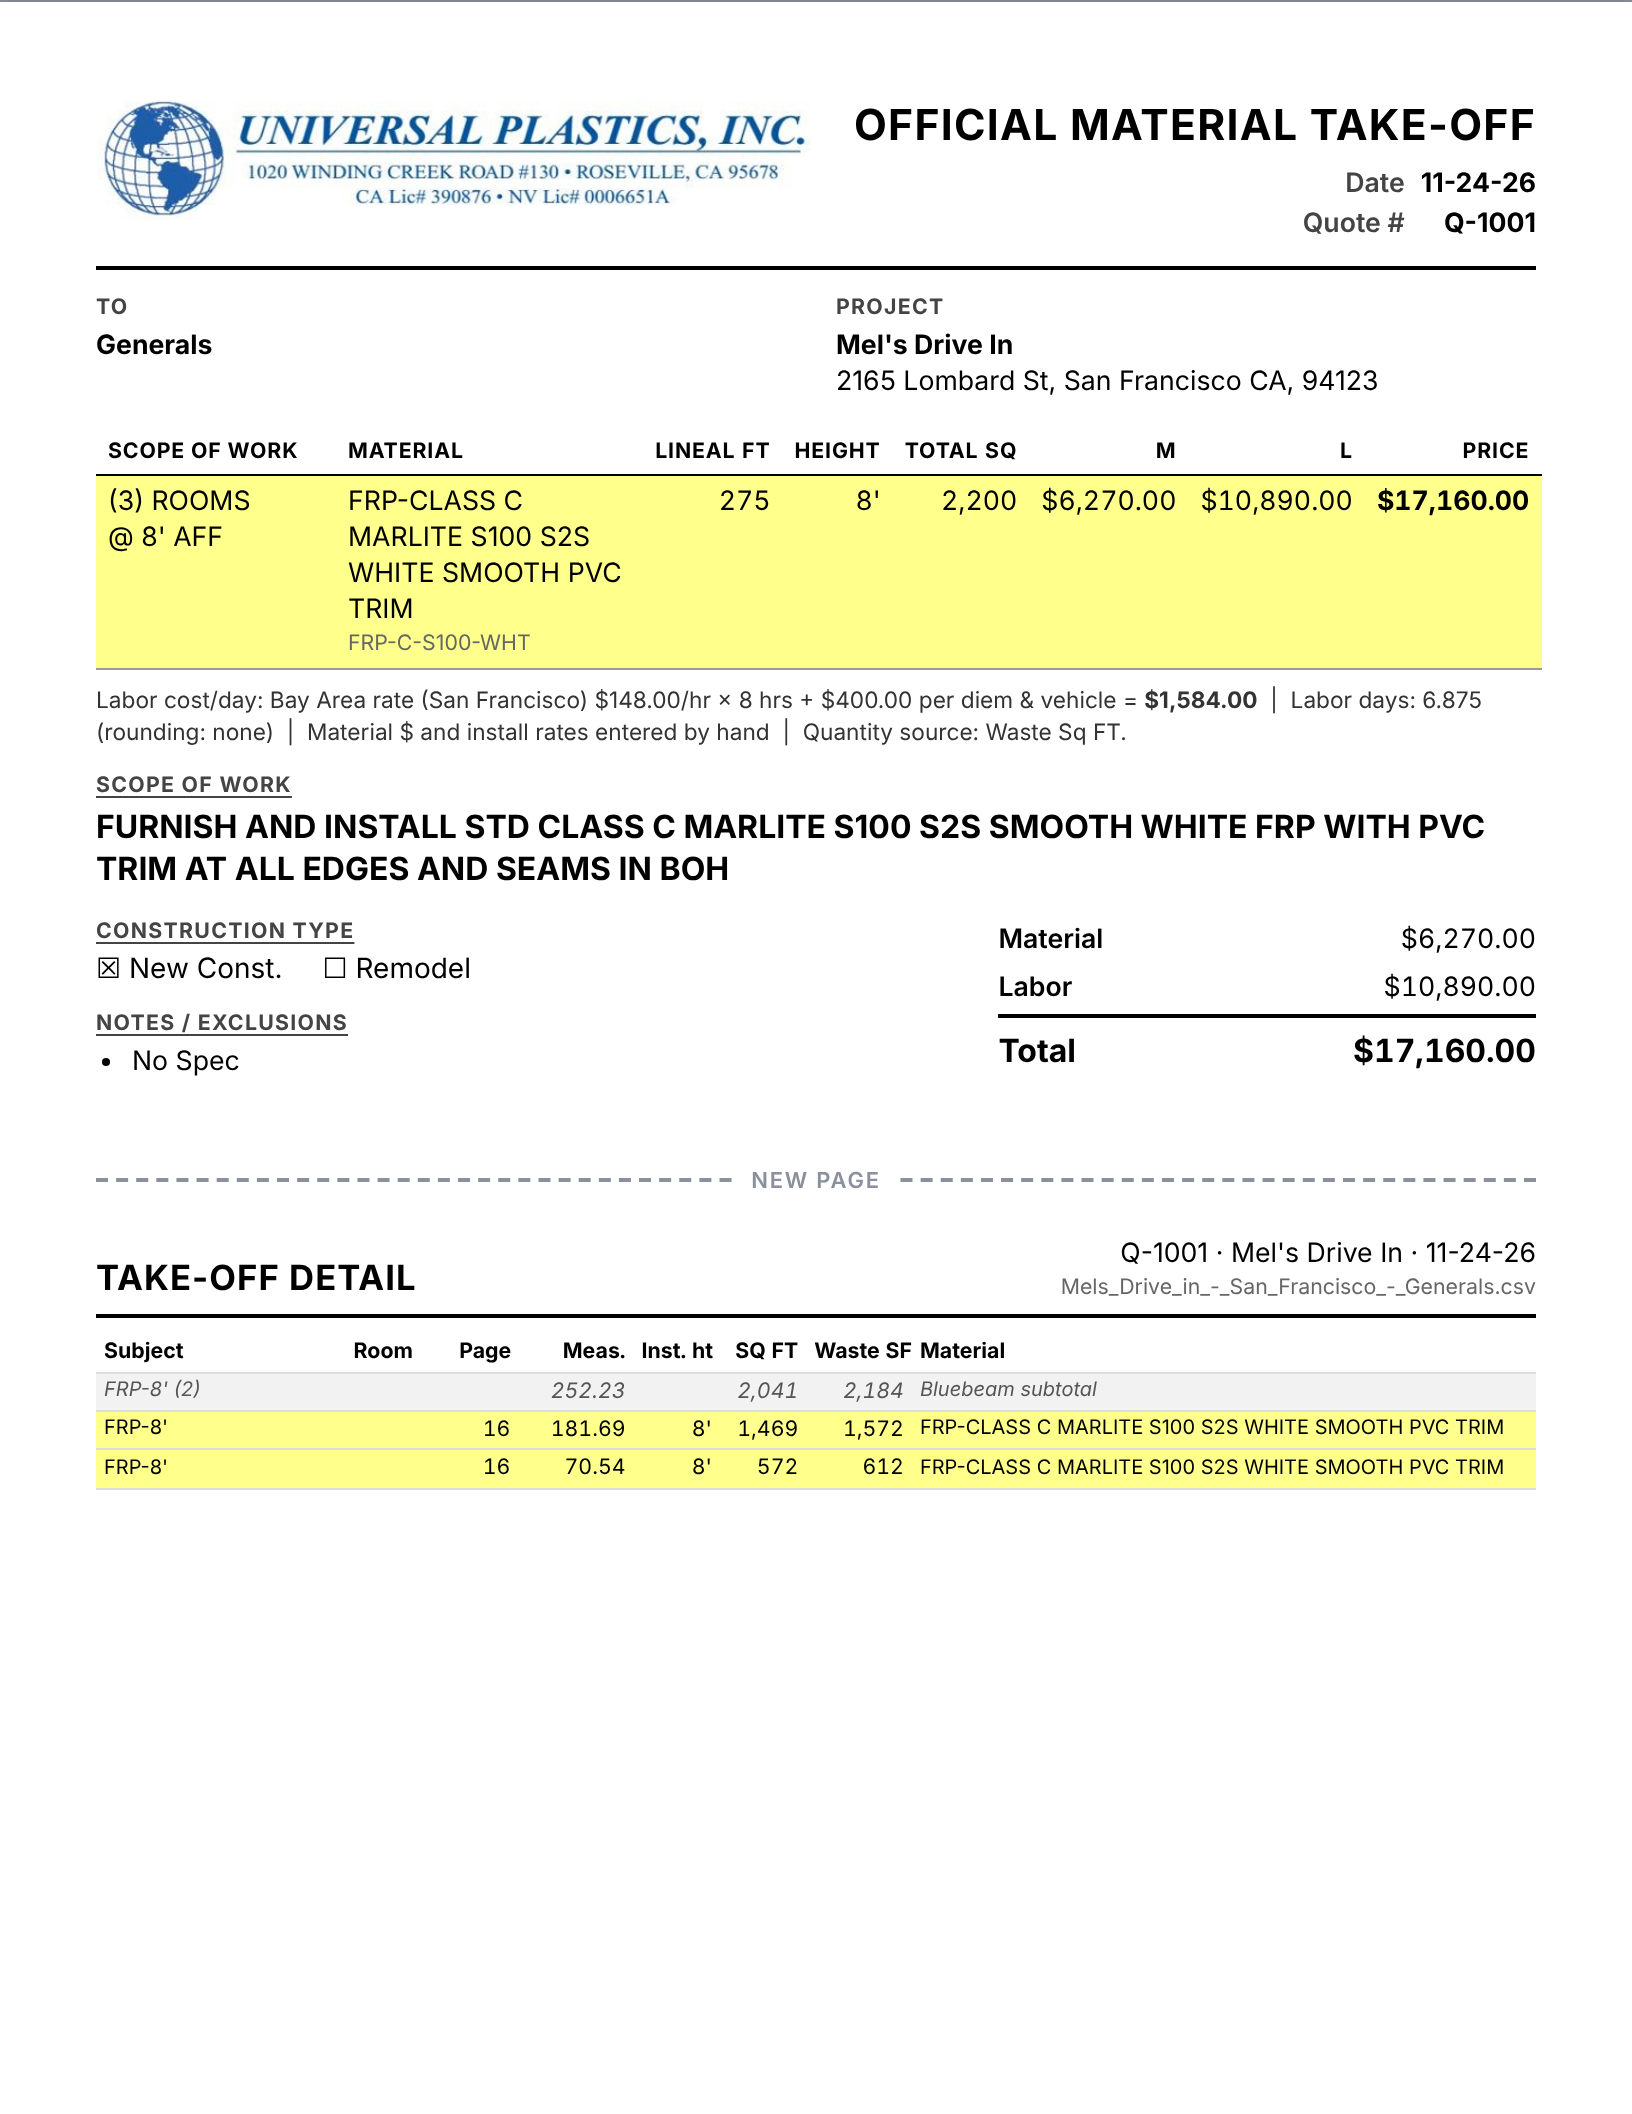
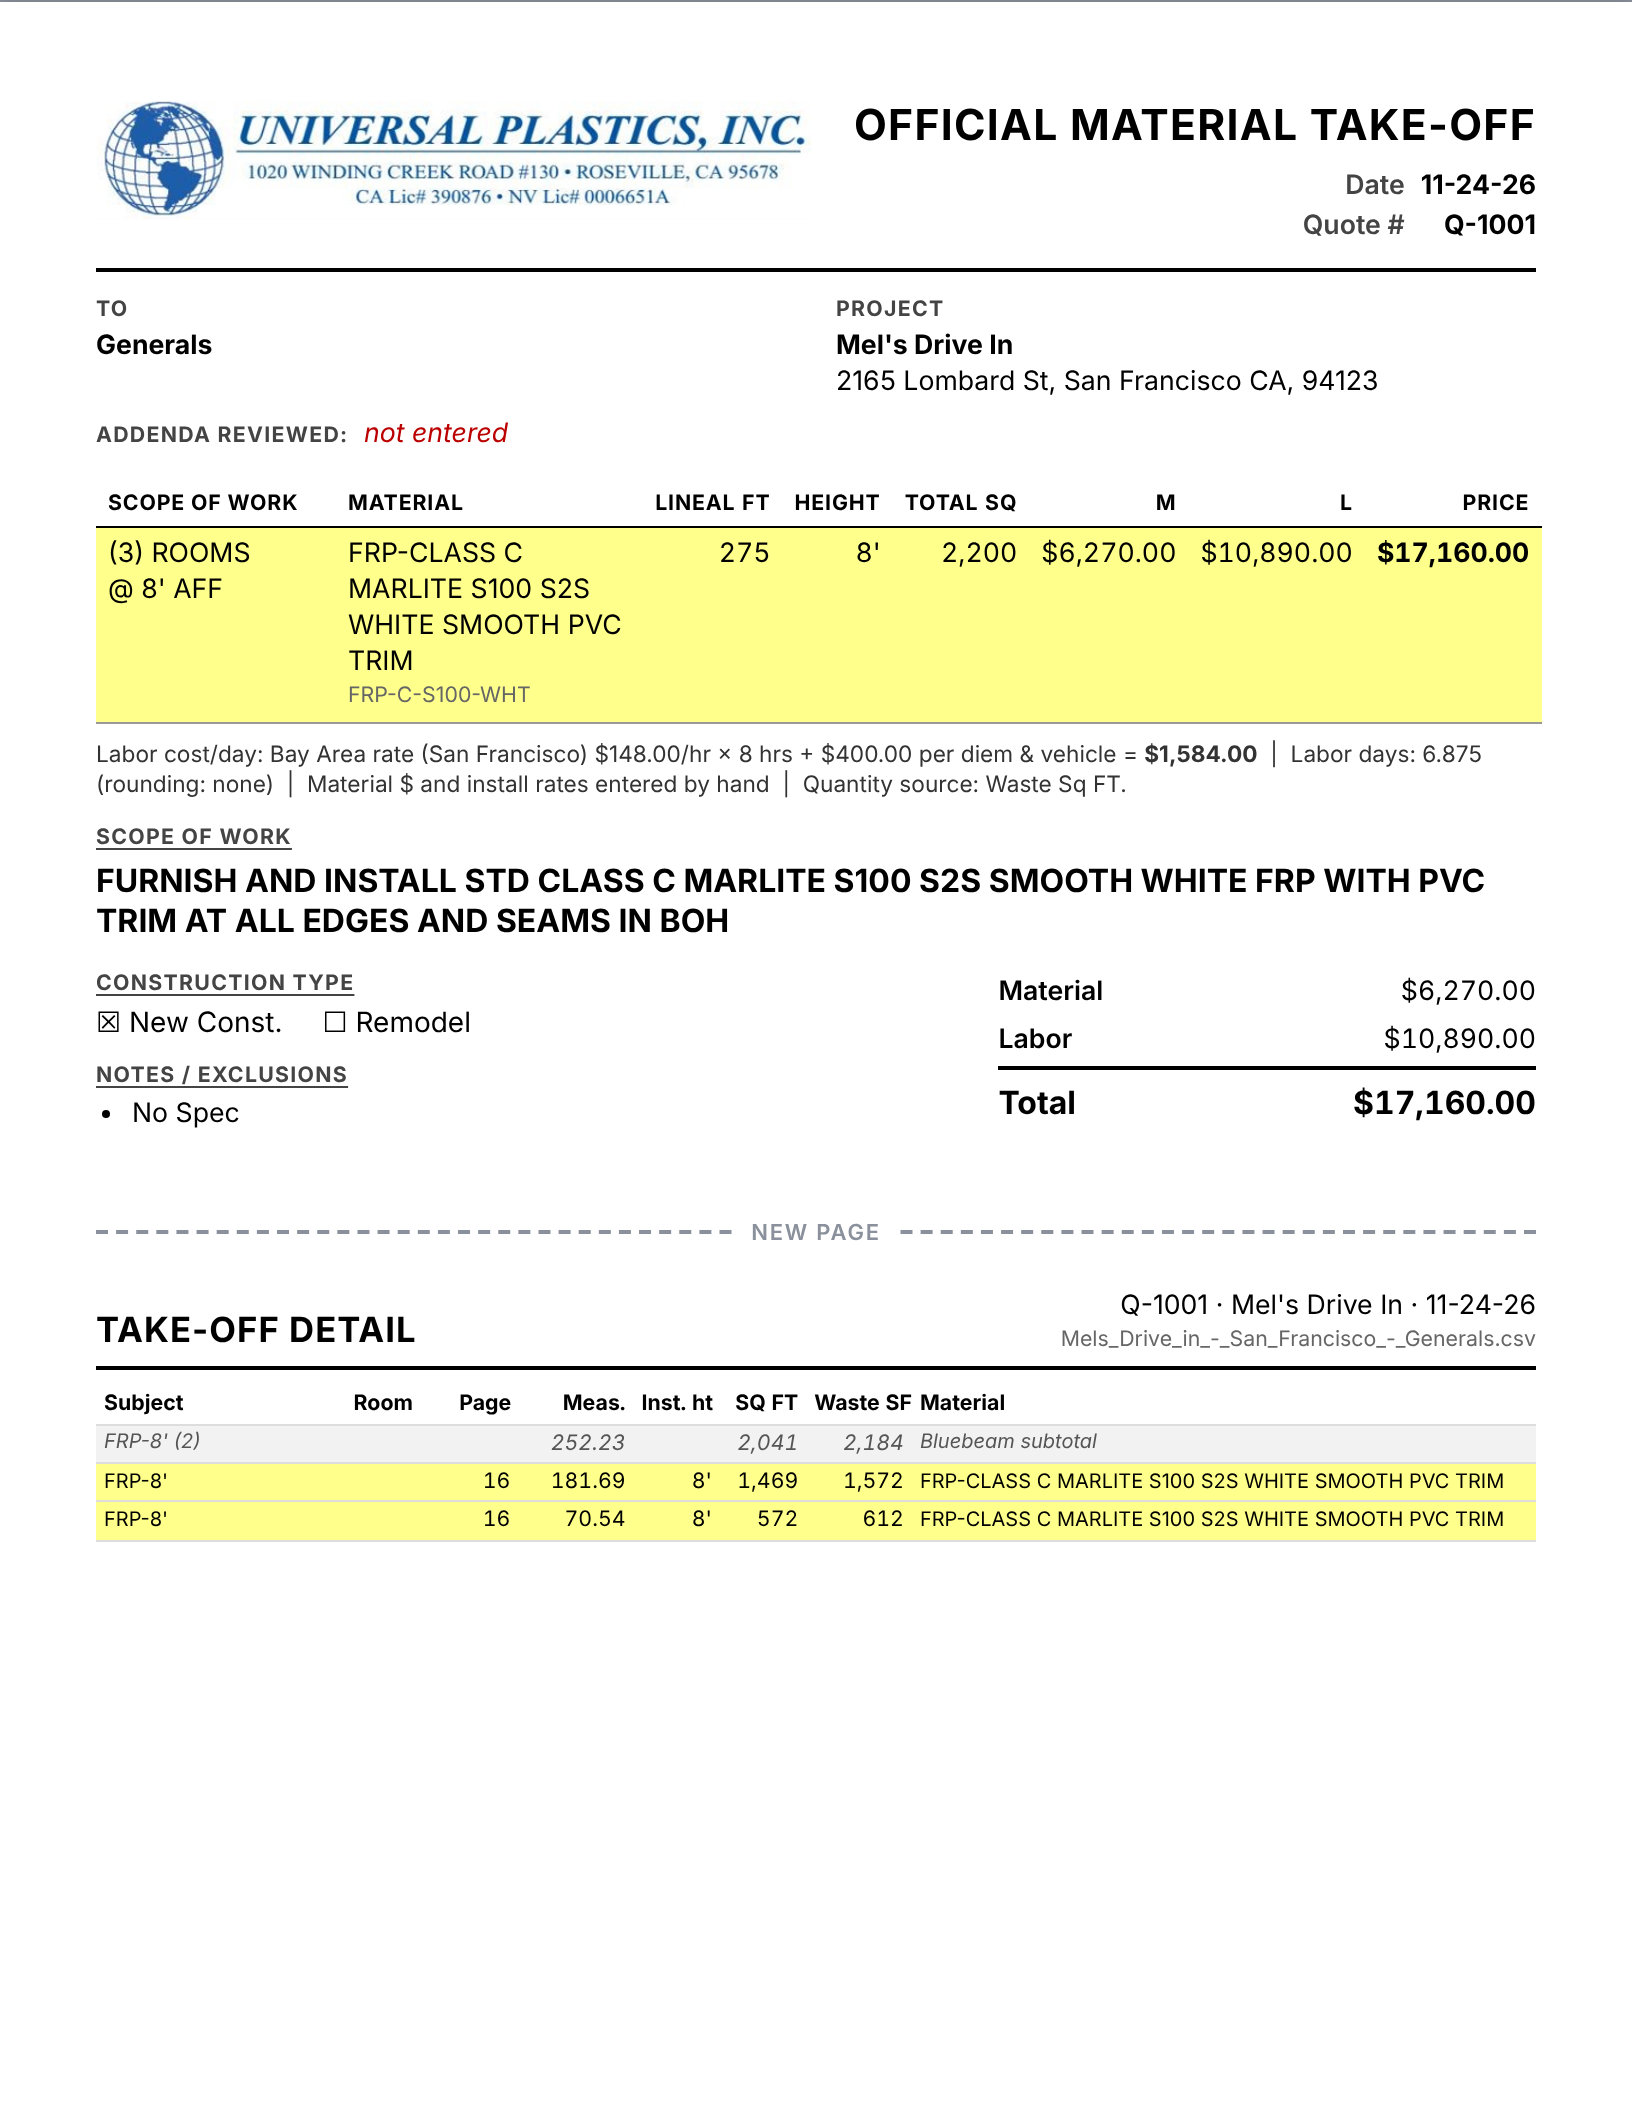
Addenda reviewed line on the GC proposal and internal take-off (#13)
Quote tab Addenda reviewed list (No. + optional date) and 'No addenda issued'; printed under To / Project on both documents (omitted on the proposal when nothing is entered, 'not entered' reminder on the internal take-off); saved with the quote; README and screenshots updated.

diff --git a/js/app.js b/js/app.js
@@ -172,6 +172,31 @@
     global.scrollTo(0, scrollY);
   }
 
+  function addendaHint(q) {
+    var t = Q.addendaText(q);
+    return t ? 'Prints as: <strong>ADDENDA REVIEWED: ' + esc(t) + '</strong>'
+      : 'Nothing entered: the GC proposal leaves this line out; the internal take-off shows "not entered".';
+  }
+
+  function renderAddendaField(q) {
+    var rows = (q.addenda || []).map(function (a, i) {
+      return '<div class="row addm-row">' +
+        '<label class="alt-field"><span>Addendum No.</span>' + textInput('qa-num-' + i, a.number || '', ' data-addm="' + esc(a.id) + '" data-af="number" style="width:90px"') + '</label>' +
+        '<label class="alt-field"><span>Date (optional)</span><input type="date" id="qa-date-' + i + '" data-addm="' + esc(a.id) + '" data-af="date"' + attr('value', a.date || '') + '></label>' +
+        '<button type="button" class="small danger" data-act="addm-del" data-id="' + esc(a.id) + '" title="Remove addendum">✕</button>' +
+        '</div>';
+    }).join('');
+    return '<div class="field" style="margin-top:10px"><span>Addenda reviewed</span>' +
+      rows +
+      '<div class="row" style="margin-top:4px">' +
+        '<button type="button" class="small" data-act="addm-add">+ Add addendum</button>' +
+        '<label class="check"><input type="checkbox" id="q-addnone" data-q="addendaNone"' + (q.addendaNone ? ' checked' : '') +
+          ((q.addenda || []).length ? ' disabled title="Remove the addenda above first"' : '') + '> No addenda issued</label>' +
+      '</div>' +
+      '<span class="hint" id="q-addm-hint">' + addendaHint(q) + '</span>' +
+      '</div>';
+  }
+
   /** "San Francisco → Bay Area" / "Roseville → Local" / "no city in the address → Local" */
   function areaText(a) {
     if (!a) return '';
@@ -191,6 +216,8 @@
     renderTabs();
     var ah = $('#q-area-hint');
     if (ah) ah.innerHTML = areaHint();
+    var adh = $('#q-addm-hint');
+    if (adh) adh.innerHTML = addendaHint(state.quote);
     var prev = $('#preview');
     if (prev) prev.innerHTML = Q.render(state.quote, state.priced, state.settings, state.previewMode);
     var tot = $('#totals-bar');
@@ -614,6 +641,7 @@
           field('Project name', textInput('q-proj', q.project.name, ' data-q="project.name"')) +
           field('Project address', textInput('q-addr', q.project.address, ' data-q="project.address"') + '<span class="hint" id="q-area-hint">' + areaHint() + '</span>') +
         '</div>' +
+        renderAddendaField(q) +
         '<div class="field" style="margin-top:10px"><span>Construction type</span><div class="radio-group">' +
           ['new', 'remodel', ''].map(function (v) {
             var lbl = { 'new': 'New Const.', remodel: 'Remodel', '': 'Not specified' }[v];
@@ -1039,6 +1067,13 @@
       return;
     }
     if (t.dataset.map !== undefined) { setMapping(t.dataset.map, t.value); return; }
+    if (t.dataset.addm !== undefined) {
+      var ad = (state.quote.addenda || []).filter(function (x) { return x.id === t.dataset.addm; })[0];
+      if (!ad) return;
+      ad[t.dataset.af] = t.value;
+      changed(full ? 'full' : 'light');
+      return;
+    }
     if (t.dataset.alt !== undefined) {
       var alt = (state.quote.alternates || []).filter(function (x) { return x.id === t.dataset.alt; })[0];
       if (!alt) return;
@@ -1129,6 +1164,20 @@
         changed();
         break;
       }
+      case 'addm-add': {
+        var list = q.addenda || [];
+        var maxNo = list.reduce(function (m, x) { var v = parseInt(String(x.number || '').replace(/\D/g, ''), 10); return isFinite(v) && v > m ? v : m; }, 0);
+        q.addenda = list.concat([{ id: 'd' + Date.now().toString(36), number: String(maxNo + 1), date: '' }]);
+        q.addendaNone = false;
+        changed();
+        var dn = doc.getElementById('qa-date-' + (q.addenda.length - 1));
+        if (dn) dn.focus();
+        break;
+      }
+      case 'addm-del':
+        q.addenda = (q.addenda || []).filter(function (x) { return x.id !== b.dataset.id; });
+        changed();
+        break;
       case 'alt-add': {
         var kind = b.dataset.kind;
         var na = { id: 'a' + Date.now().toString(36) + Math.floor(Math.random() * 1e4).toString(36), kind: kind, title: '' };

diff --git a/js/quote.js b/js/quote.js
@@ -56,6 +56,8 @@
       excludedRows: {},
       manualLines: [],
       alternates: [],        // ADD / DEDUCT alternates (not in the base bid); see Pricing.priceAlternates
+      addenda: [],           // reviewed addenda: [{ id, number, date (yyyy-mm-dd, optional) }]
+      addendaNone: false,    // "No addenda issued"
       lineOverrides: {},
       rates: ratesFromSettings(settings)
     };
@@ -72,6 +74,8 @@
     out.excludedRows = out.excludedRows || {};
     out.manualLines = out.manualLines || [];
     out.alternates = Array.isArray(out.alternates) ? out.alternates : [];
+    out.addenda = Array.isArray(out.addenda) ? out.addenda : [];
+    out.addendaNone = !!out.addendaNone;
     out.lineOverrides = out.lineOverrides || {};
     out.rates = out.rates || ratesFromSettings(settings);
     out.rates.catalog = (out.rates.catalog || []).map(global.Pricing.normalizeCatalogItem);
@@ -117,6 +121,27 @@
 
   function unitLabel(unit) {
     return { sf: 'SQ FT', lf: 'LF', ea: 'EA' }[unit] || String(unit || '').toUpperCase();
+  }
+
+  /**
+   * "No. 1 (10-15-26), No. 2 (10-22-26)" / "None issued" / "" (nothing entered).
+   */
+  function addendaText(quote) {
+    var list = (quote.addenda || []).filter(function (a) { return String(a.number || '').trim() || a.date; });
+    if (list.length) {
+      return list.map(function (a) {
+        var n = String(a.number || '').trim().replace(/^(no\.?|#|addendum)\s*/i, '');
+        return 'No. ' + (n || '?') + (a.date ? ' (' + U.formatDateShort(a.date) + ')' : '');
+      }).join(', ');
+    }
+    return quote.addendaNone ? 'None issued' : '';
+  }
+
+  function renderAddenda(quote, internal) {
+    var t = addendaText(quote);
+    if (!t && !internal) return '';
+    return '<div class="doc-addenda"><span class="doc-label">Addenda reviewed:</span> ' +
+      (t ? '<span class="doc-strong">' + esc(t) + '</span>' : '<em class="doc-flag">not entered</em>') + '</div>';
   }
 
   function notesList(quote) {
@@ -345,6 +370,7 @@
     return '' +
       '<article class="doc doc-internal">' +
         renderHeader(quote, settings, 'OFFICIAL MATERIAL TAKE-OFF') +
+        renderAddenda(quote, true) +
         (priced.totals.linesMissingRates ? '<p class="doc-alert">INCOMPLETE: ' + priced.totals.linesMissingRates + ' line' +
           (priced.totals.linesMissingRates === 1 ? ' is' : 's are') + ' missing material $ or install rate. Totals below are understated.</p>' : '') +
         '<table class="doc-lines">' +
@@ -441,6 +467,7 @@
     return '' +
       '<article class="doc doc-proposal">' +
         renderHeader(quote, settings, 'PROPOSAL') +
+        renderAddenda(quote, false) +
         '<table class="doc-lines">' +
           '<thead><tr>' + head + '</tr></thead>' +
           '<tbody>' + (body || '<tr><td colspan="' + cols + '" class="doc-empty">No line items.</td></tr>') + '</tbody>' +
@@ -472,6 +499,7 @@
     fileName: fileName,
     unitLabel: unitLabel,
     scopeText: scopeText,
+    addendaText: addendaText,
     scopeTextAuto: scopeTextAuto,
     render: render,
     esc: esc

diff --git a/test/tests.html b/test/tests.html
@@ -982,6 +982,22 @@
       q.lineOverrides[Pricing.price(q, rows).lines[0].key] = { scope: 'OLD PER-LINE SCOPE' };   // quotes saved before this change
       ok(/OLD PER-LINE SCOPE/.test(Quote.scopeText(q, Pricing.price(q, rows))), 'older per-line scope edits still used');
     });
+    test('addenda reviewed', function () {
+      var s = freshSettings();
+      var q = newQ(s);
+      var pr = Pricing.price(q, fixture().rows);
+      eq(Quote.addendaText(q), '', 'nothing entered');
+      ok(!/Addenda reviewed/.test(Quote.render(q, pr, s, 'proposal')), 'proposal leaves the line out');
+      ok(/Addenda reviewed:<\/span> <em class="doc-flag">not entered<\/em>/.test(Quote.render(q, pr, s, 'internal')), 'internal reminds');
+      q.addendaNone = true;
+      eq(Quote.addendaText(q), 'None issued', 'no addenda issued');
+      ok(/Addenda reviewed:<\/span> <span class="doc-strong">None issued/.test(Quote.render(q, pr, s, 'proposal')), 'printed on the proposal');
+      q.addenda = [{ id: 'a', number: '1', date: '2026-10-15' }, { id: 'b', number: '#2', date: '2026-10-22' }, { id: 'c', number: 'Addendum 3', date: '' }, { id: 'd', number: '', date: '' }];
+      eq(Quote.addendaText(q), 'No. 1 (10-15-26), No. 2 (10-22-26), No. 3', 'numbers and dates; blank rows skipped; "#" / "Addendum" prefixes tidied');
+      ok(/No\. 1 \(10-15-26\), No\. 2 \(10-22-26\), No\. 3/.test(Quote.render(q, pr, s, 'internal')), 'printed on the internal take-off');
+      var q2 = Quote.fromFile(JSON.parse(JSON.stringify(Quote.toFile(q))), s);
+      eq(Quote.addendaText(q2), 'No. 1 (10-15-26), No. 2 (10-22-26), No. 3', 'saved with the quote');
+    });
     test('settings upgrade to the letterhead', function () {
       var blank = RqbStorage.normalizeSettings({ version: 2, company: { name: '', address: '', phone: '', email: '', license: '', logoDataUrl: '' } });
       eq(blank.company.logoDataUrl, 'img/universal-plastics-logo.png', 'blank company -> letterhead');

diff --git a/css/print.css b/css/print.css
@@ -19,6 +19,8 @@
 .doc-meta td { text-align: right; padding: 1px 0; font-weight: 700; }
 
 .doc-parties { display: grid; grid-template-columns: 1fr 1fr; gap: 20px; margin-bottom: 14px; }
+.doc-addenda { margin: -6px 0 14px; font-size: 10pt; }
+.doc-addenda .doc-label { display: inline; margin-right: 4px; }
 
 .doc-lines { width: 100%; border-collapse: collapse; margin-bottom: 8px; }
 .doc-lines th { font-size: 8pt; text-transform: uppercase; letter-spacing: .04em; text-align: left; border-bottom: 1.5px solid #000; padding: 4px 6px; }

diff --git a/css/app.css b/css/app.css
@@ -212,3 +212,6 @@ table.data td.item-cell { min-width: 220px; }
 .alt-hint { flex-basis: 100%; }
 .alt-result { white-space: nowrap; font-size: 15px; color: var(--ok); }
 .alt-result.deduct { color: #a52020; }
+
+/* Quote tab: addenda reviewed */
+.addm-row { align-items: flex-end; margin-top: 4px; }

diff --git a/README.md b/README.md
@@ -314,6 +314,9 @@ Header and fields mirror the current sheet:
   Scope of work (e.g. `(3) ROOMS @ 8' AFF`) · Material description · Lineal Ft · Height · Total SQ · Price
 - **Scope of work** (one text box on the Quote tab, above Notes / exclusions). It starts as the catalog `scope` of each line item (each paragraph once) and can be edited freely; *Use automatic text* restores it. On both printouts it is printed in 12pt bold, the same as the Total line.
 - **Section headings** SCOPE OF WORK, CONSTRUCTION TYPE and NOTES / EXCLUSIONS are underlined on both printouts.
+- **Addenda reviewed:** entered on the Quote tab as addendum No. + optional date (*+ Add addendum* numbers them), or *No addenda issued*.
+  - Prints under To / Project on both documents, e.g. `ADDENDA REVIEWED: No. 1 (10-15-26), No. 2 (10-22-26)` or `None issued`.
+  - If nothing is entered, the GC proposal leaves the line out and the internal take-off shows "not entered".
 - **Construction type:** ☐ New Const. ☐ Remodel
 - **Notes / exclusions** (e.g. "No Spec")
 - **Grand total**
